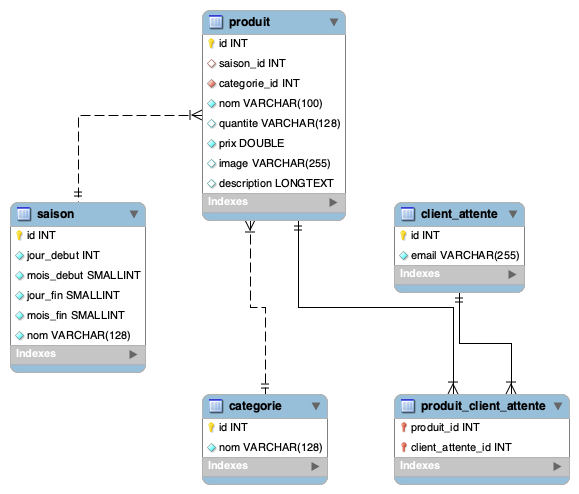
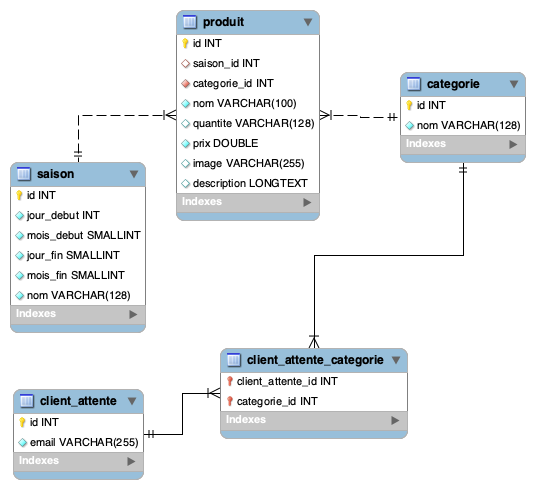
Update db for SAE 203

diff --git a/integration-web-s2/en-route-vers-sae-203/LISEZ-MOI.md b/integration-web-s2/en-route-vers-sae-203/LISEZ-MOI.md
@@ -103,14 +103,22 @@ echo date_format($debut_ete, "d/m/Y");
 // Et pour récupérer la date courante 
 $aujourdhui = date_create();
 
-// A partir de là, vous devez rajouter la condition permettant de s'assurer que la date du jour est comprise dans la saison cible.
+// A partir de là, vous devez rajouter la condition permettant de s'assurer que la date du jour est comprise dans la saison cible. La logique est identique à celle qui nous permet de savoir si un nombre est compris entre deux nombre.
 ```
 
 
 [Script SQL pour créer la base de données Mysql (cliquez sur le bouton "raw" puis faites clic droit > Enregistrer sous)](salon_the_IUT.sql).
 Ce fichier devra être importé dans le menu "import" de phpmyadmin.
 
+#### Clients en attente
+Vous avez dû le remarquer, entre les tables "categorie" et "client_attente", il s'agit d'une table intermédiaire, on dit que la relation est Many-to-Many. Autrement dit, le même client (en attente) peut attendre pour plusieurs catégories. Pour insérer une entrée dans ce genre de relation, il faut insérer, dans notre cas, l'adresse e-mail du client (dans la table client_attente), récupérer l'id de la dernière entrée et le mettre dans client_attente_categorie. Voici le code MySQL pour réaliser ceci pour vous aider :
 
+```mysql
+INSERT IGNORE INTO client_attente (email) VALUES (ADRESSE-EMAIL-UTILISATEUR);
+SET @client_id = LAST_INSERT_ID();
+INSERT INTO client_attente_categorie (client_attente_id,categorie_id) VALUES(@client_id, ID-DE-LA-CATEGORIE); 
+```
+A vous d'adapter les valeurs pour réussir vos insertions en Many-To-Many.
 
 # Page boissons
 Tout en respectant la direction artistique du site, **ça sera à vous de proposer un design** pour cette page, elle devra donc lister les informations en provenance de la base de données. N'hésitez pas à vous inspirer de ce que vous avez vu et aimé sur le web, c'est votre page.
